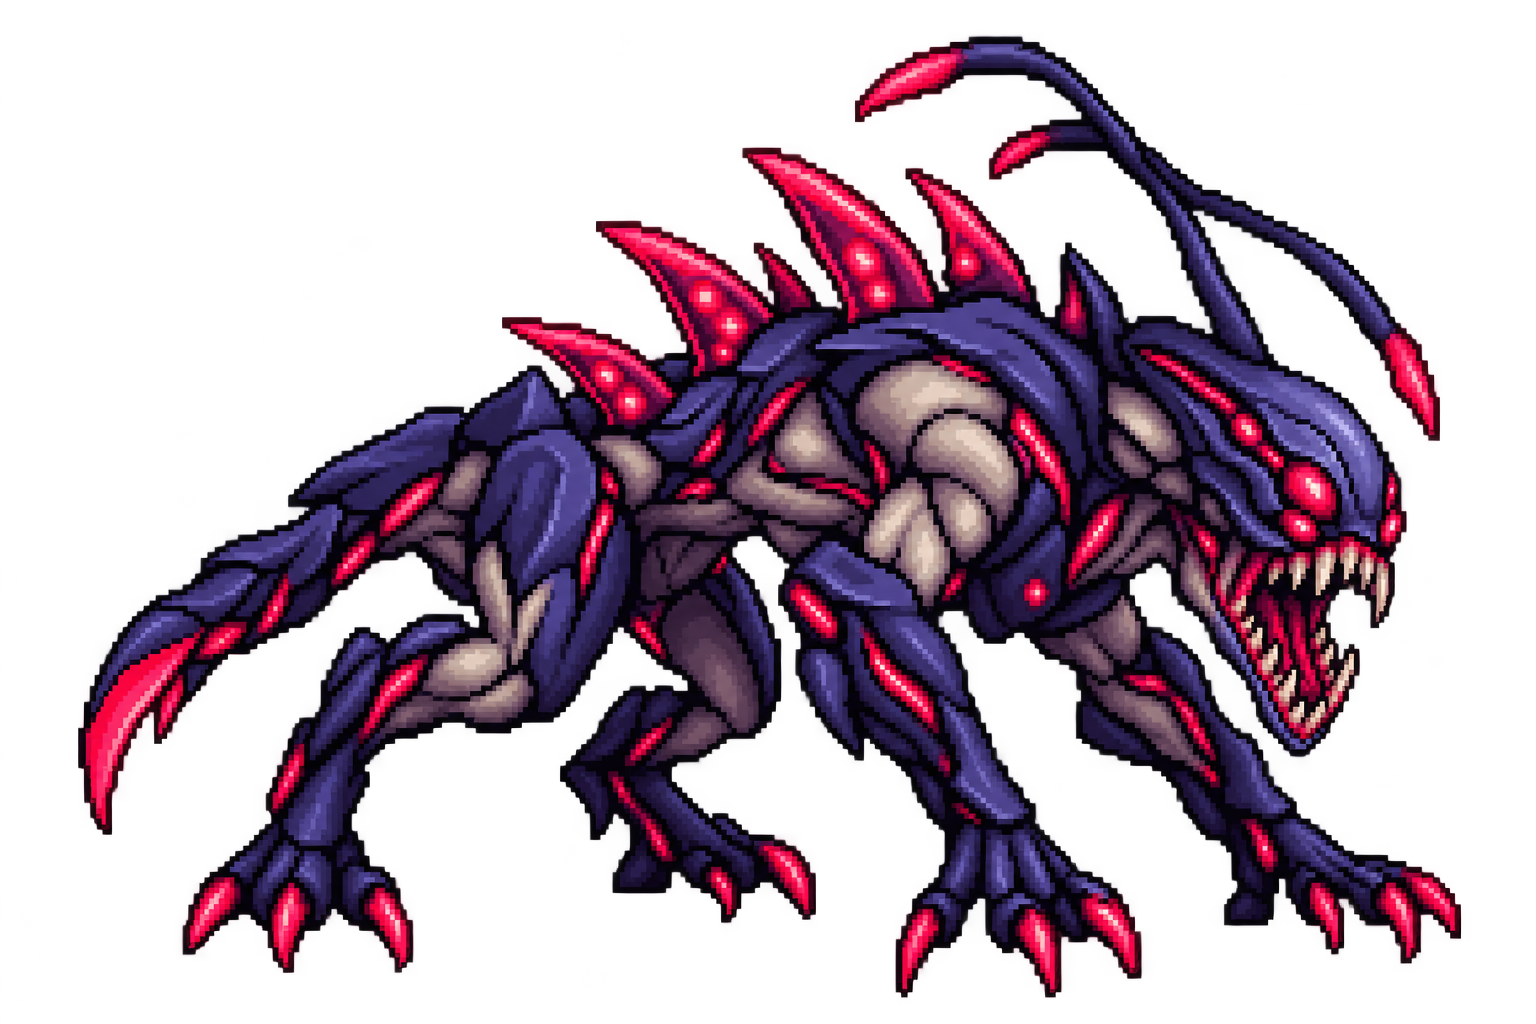
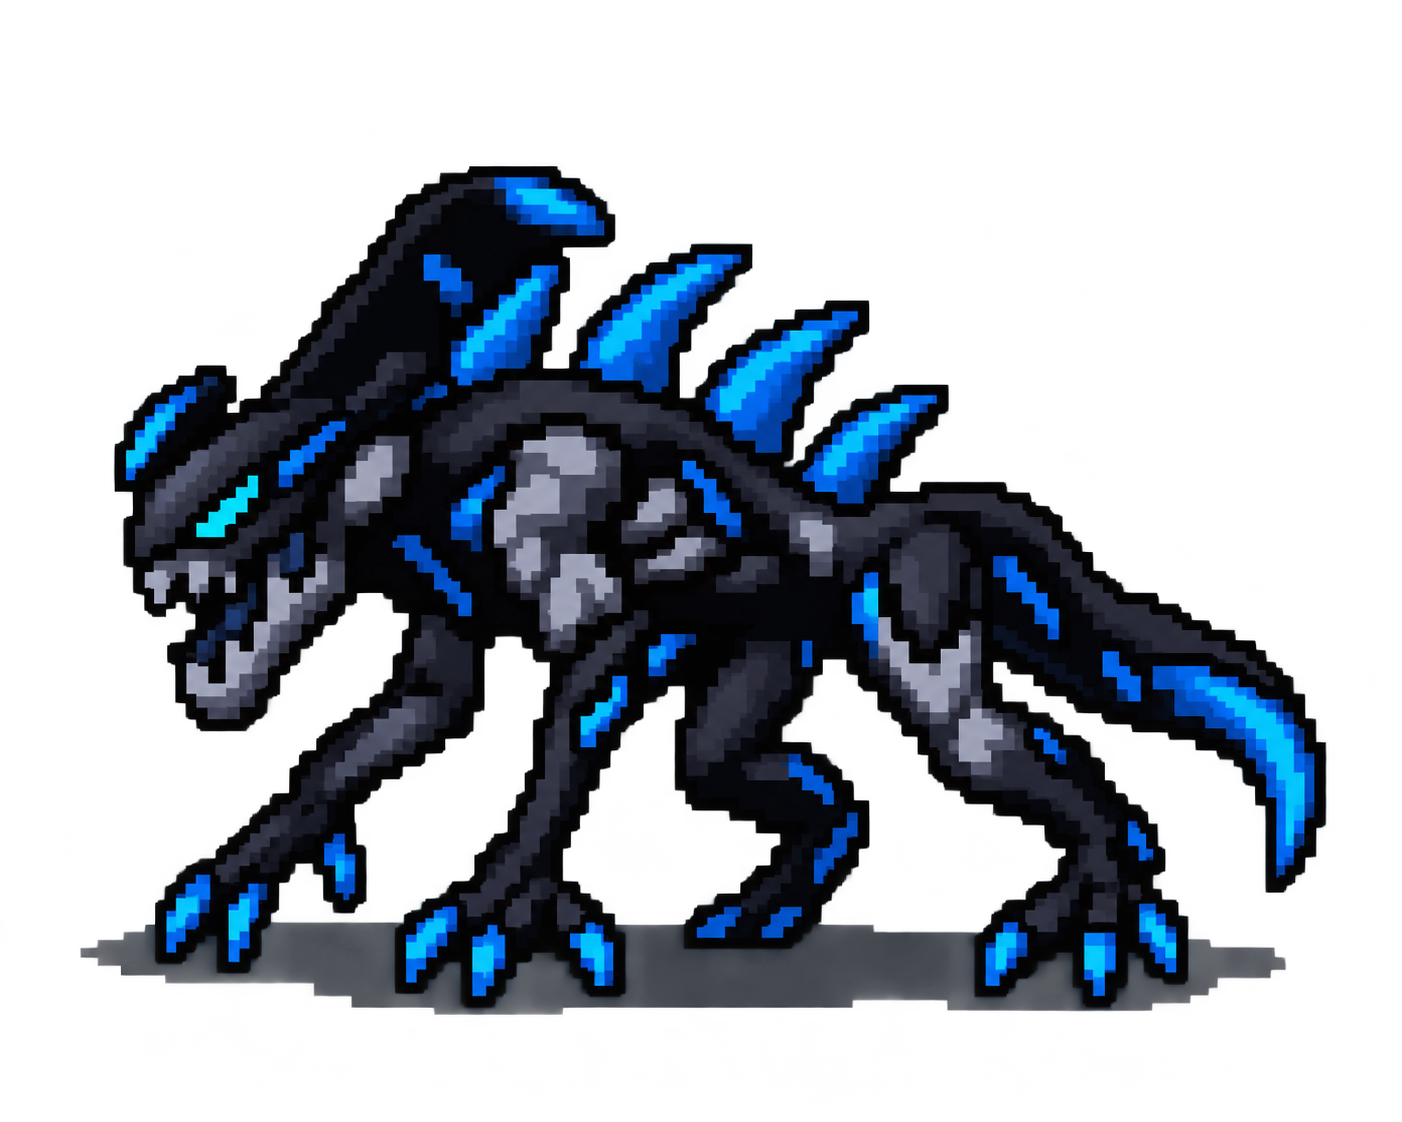
Añado nuevos personajes

diff --git a/pixelstrike/datos.py b/pixelstrike/datos.py
@@ -75,7 +75,7 @@ JEFE_ALTURA_MUERTE = 1.0
 
 ALIEN_RAPTOR = DatosEnemigo("alienRaptorArma(1).png", 20, FUSIL_ALIEN, (0.75, 2.0), (255, 105, 180), 1.75)
 CRAWLER = DatosEnemigo("crawler(2).png", 30, BOLA_FUEGO, (0.5, 0.75), (20, 120, 50), 1.75)
-ZYRAK = DatosEnemigo("Zyrak(2).png", 25, BOLA_MAGMA, (0.6, 0.9), (255, 140, 0), 1.75)
+ZYRAK = DatosEnemigo("Zyrak(3).png", 25, BOLA_MAGMA, (0.6, 0.9), (255, 140, 0), 1.75)
 
 # ============================================================================
 # Dificultades
